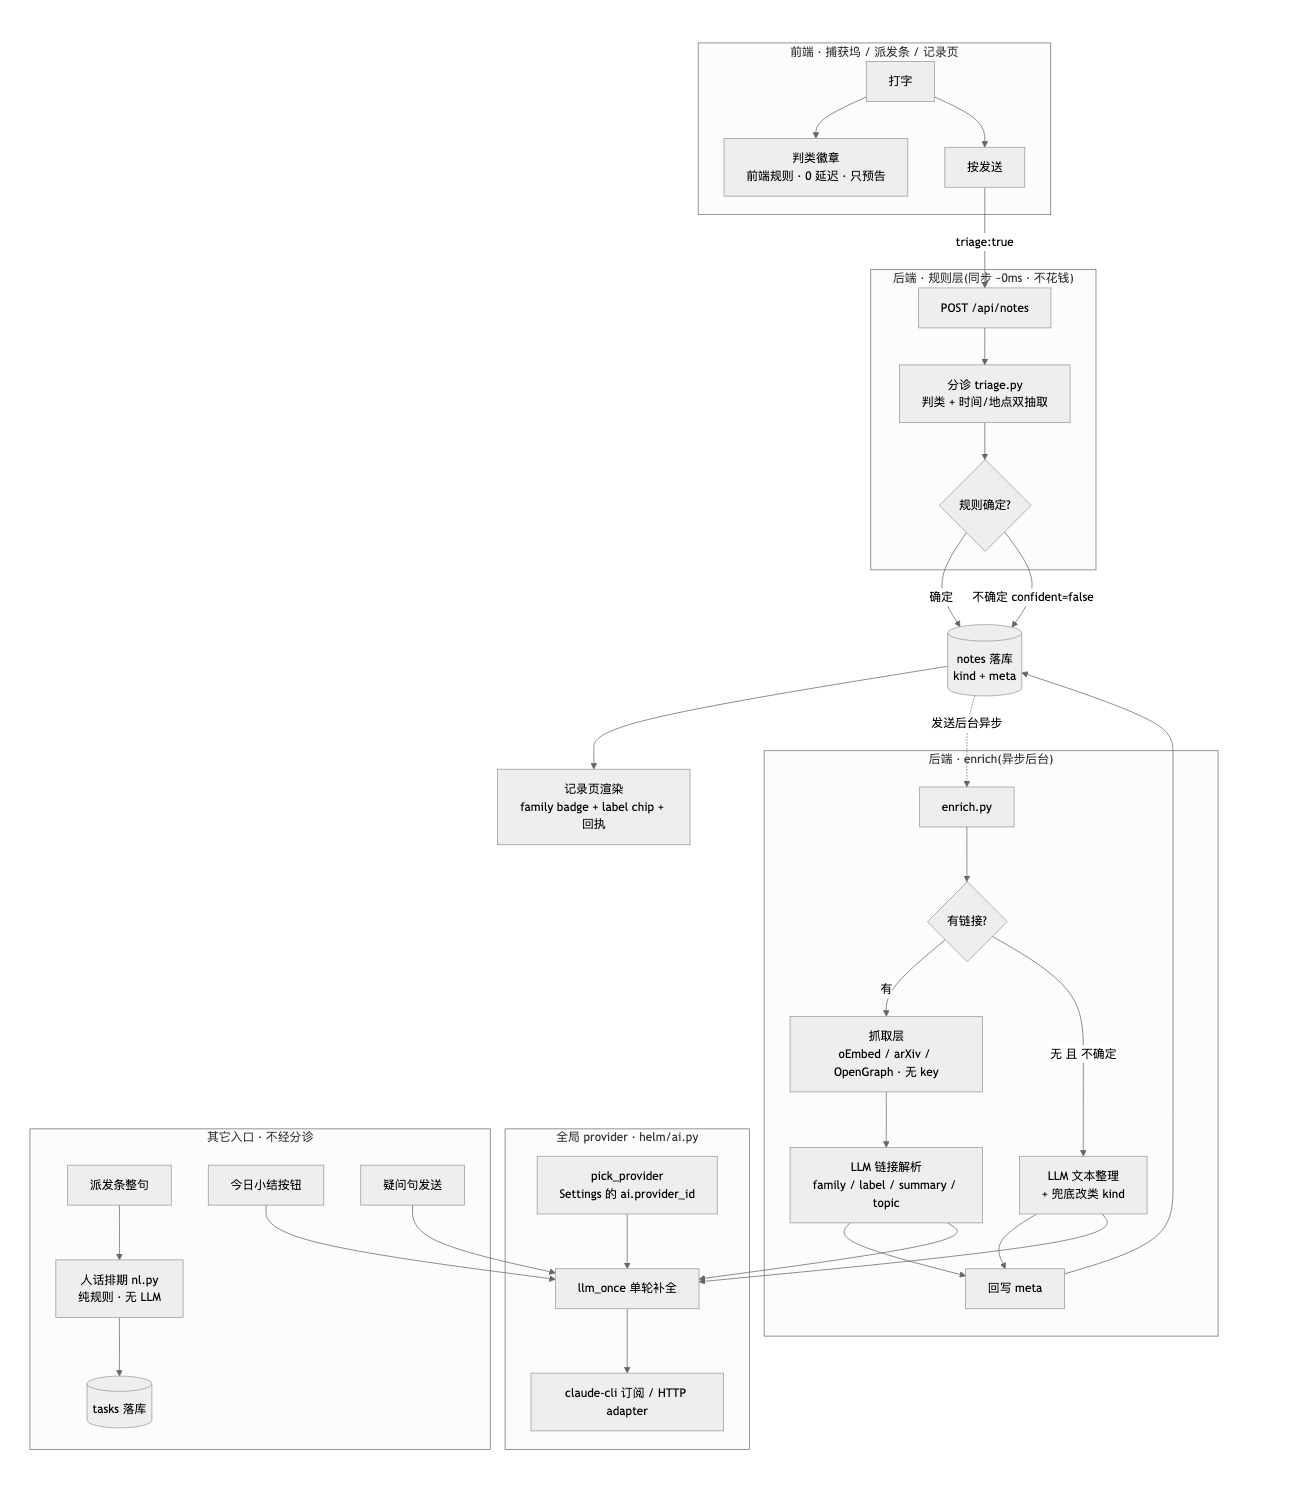
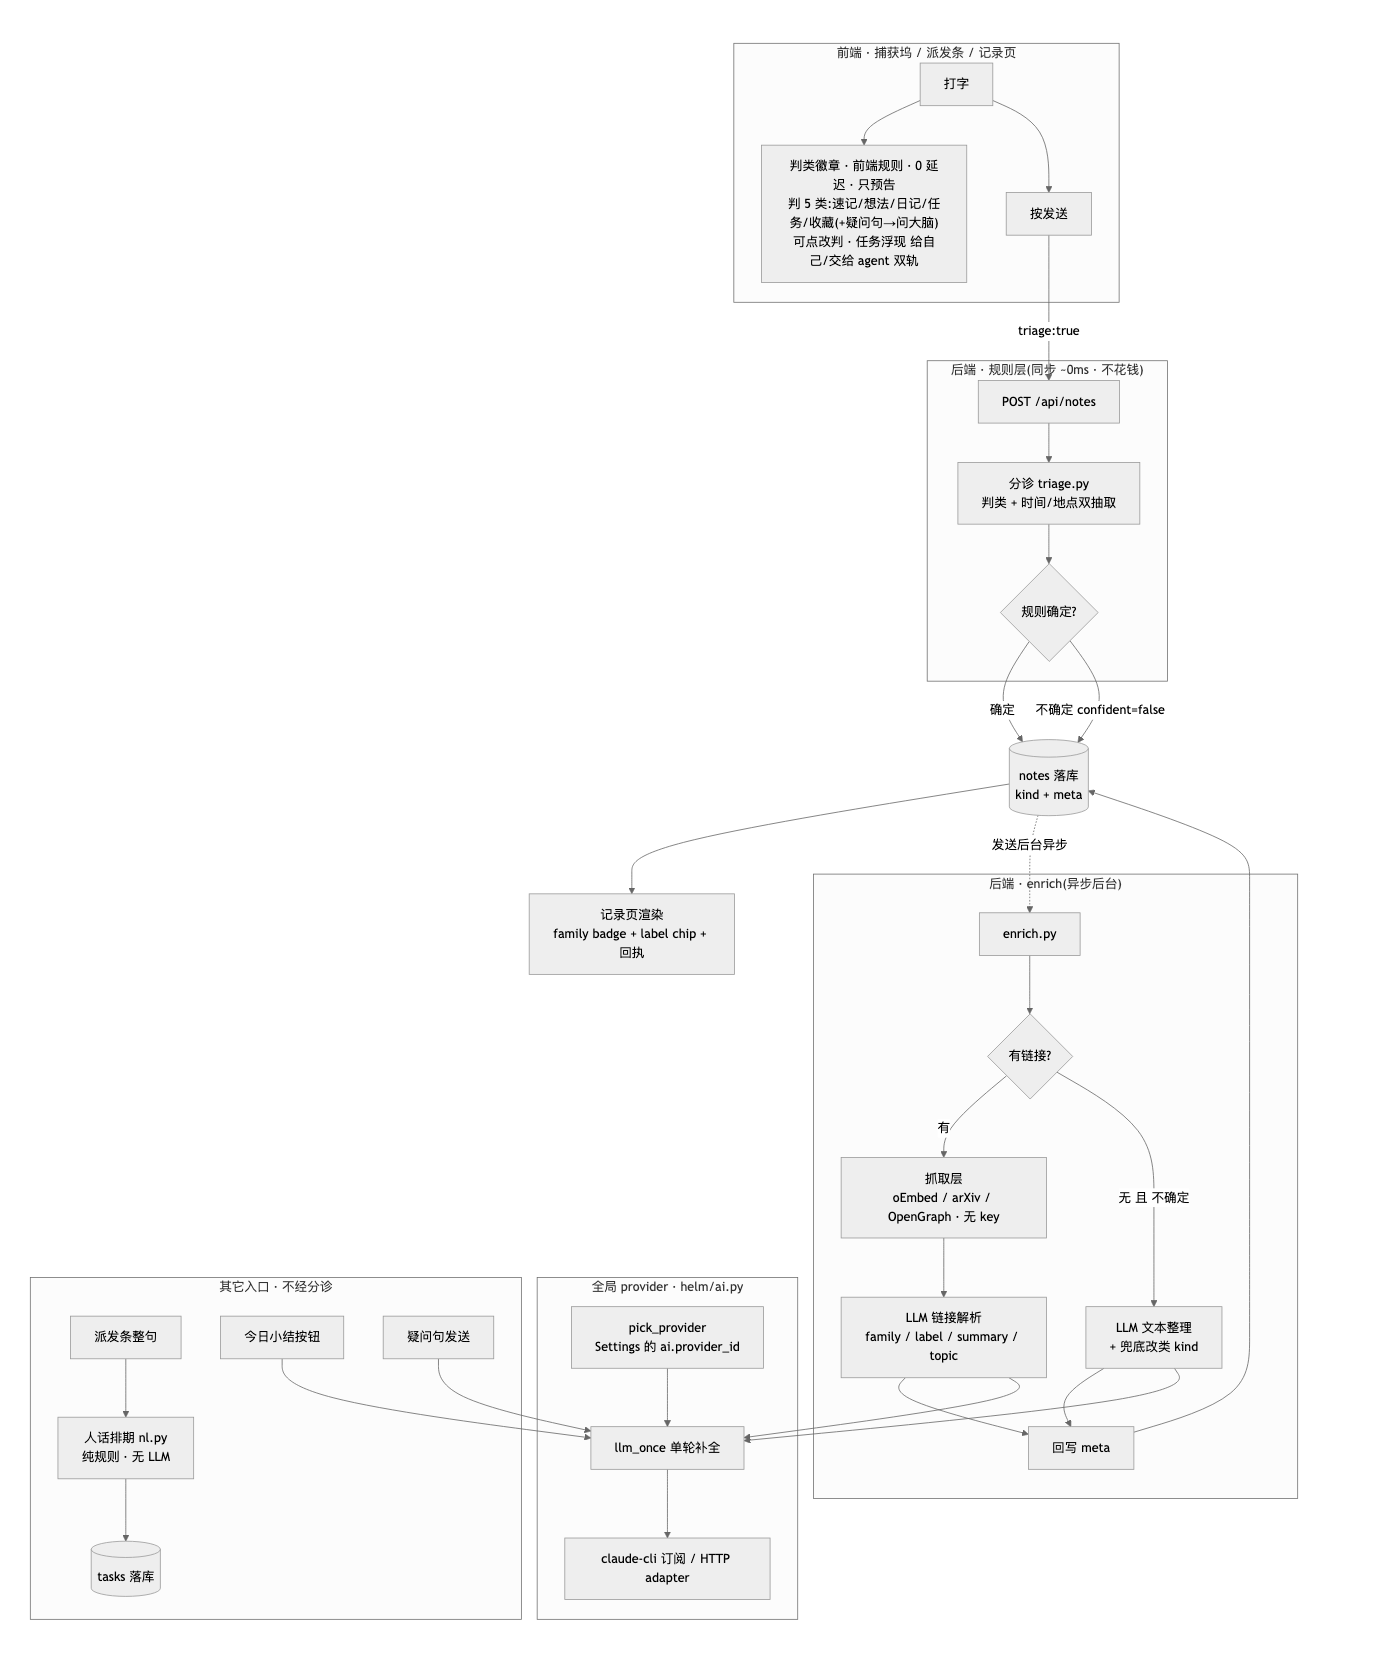
docs(ai): ASCII 图展开前端捕获坞子流程——5 类判定/改判/专注/发送三分流 [用户要求]
- ASCII 图「打字→判类徽章」两行展开成完整前端子流程:实时判 5 类+徽章
  文案+点击轮换改判+专注钮+预告说明;发送按判定分 notes/tasks/ask 三路。
- 同步 mermaid BADGE 节点+重导 PNG(1280 宽,渲染校验 OK)。

diff --git a/docs/AI-SYSTEM.md b/docs/AI-SYSTEM.md
@@ -24,7 +24,7 @@
 ```mermaid
 flowchart TB
   subgraph FE["前端 · 捕获坞 / 派发条 / 记录页"]
-    IN["打字"] --> BADGE["判类徽章<br/>前端规则 · 0 延迟 · 只预告"]
+    IN["打字"] --> BADGE["判类徽章 · 前端规则 · 0 延迟 · 只预告<br/>判 5 类:速记/想法/日记/任务/收藏(+疑问句→问大脑)<br/>可点改判 · 任务浮现 给自己/交给 agent 双轨"]
     IN --> SEND["按发送"]
   end
 
@@ -64,17 +64,28 @@ flowchart TB
   end
 ```
 
-同一张图的纯文本版(终端/无渲染时看):
+同一张图的纯文本版(终端/无渲染时看;在**前端捕获坞**处展开得更细——判哪几类、
+徽章长什么样、怎么改判、发送时怎么分三条路):
 
 ```
 用户在捕获坞打字
      │
-     ├── 实时 ──> [判类徽章]   前端规则 · 0 延迟 · 只预告 · 不落库
+     │  每敲一字,前端本地规则实时重判(CaptureDock.svelte) ── 0 延迟 · 不联网 · 不落库
+     │      ├─ 含链接       ─> 徽章「AI · 收藏 · 视频/论文/链接」
+     │      ├─ 时间词       ─> 徽章「AI · 任务 · 读到时间词」+ 浮现双轨[ 给自己 | 交给 agent ]
+     │      ├─ 想法词       ─> 徽章「AI · 想法 · 点子」
+     │      ├─ 叙事且较长   ─> 徽章「AI · 日记 · 叙事」
+     │      ├─ 疑问句       ─> 徽章「AI · 问大脑 · 疑问句」
+     │      └─ 其余         ─> 徽章「AI · 速记」
+     │      · 点徽章轮换改判(速记→想法→日记→任务→问大脑)= 手动接管;再点回 AI 自动
+     │      · 另有专注钮:用这句话开始计时,停止时写入今日日记
+     │      ↑ 这一步只是"发送前的预告",后端会用同一套规则再判一次(权威)
      │
-   按发送 (triage:true)
+   按发送 ── 按当前判定分三条路:
+     │      ├─「交给 agent」的任务 ─> POST /api/tasks  ┄> 人话排期(见文末「其它入口」)
+     │      └─ 问大脑               ─> POST /api/ask    ┄> 直连大模型(见文末「其它入口」)
      │
-     v
-  POST /api/notes
+     └─ 速记/想法/日记/「给自己」的任务 ─> POST /api/notes (triage:true)  ◀ 主线,继续 ↓
      │
    分诊规则层 triage.py        同步 ~0ms · 不花钱
    判类 + 时间/地点双抽取

diff --git a/docs/loops/nomi/log.md b/docs/loops/nomi/log.md
@@ -192,3 +192,6 @@
 - 开头加架构图:mermaid 数据流图(经浏览器 mermaid@11 渲染校验通过 OK)+ 纯文本 ASCII 兜底版(终端可读);新增文件地图表(功能→文件)。
 - 图内容:捕获坞→前端徽章/发送→分诊规则层→落库(确定/不确定)→异步 enrich(抓取层→LLM 链接解析 family/label/topic / LLM 文本整理兜底改类)→回写;所有 LLM 汇入 pick_provider→llm_once→claude-cli;其它入口(人话排期纯规则/小结/问大脑)旁挂。
 - 视觉: shots/ai-arch.png(渲染图)
+## 文档细化 · 2026-07-08 · ASCII 图前端徽章子流程展开 [用户要求]
+- ASCII 图把「打字→判类徽章」两行展开:5 类实时判定(收藏/任务+双轨/想法/日记/问大脑/速记)+徽章文案+点击轮换改判/手动接管+专注钮+"只是预告后端为准";发送按判定分三条路(notes 主线 / tasks 人话排期 / ask 问大脑)。
+- 同步:mermaid BADGE 节点补分类概要,重导 ai-system-arch.png(1280 宽,neutral,渲染校验 OK);ASCII 前言注明"前端徽章处更展开"。
